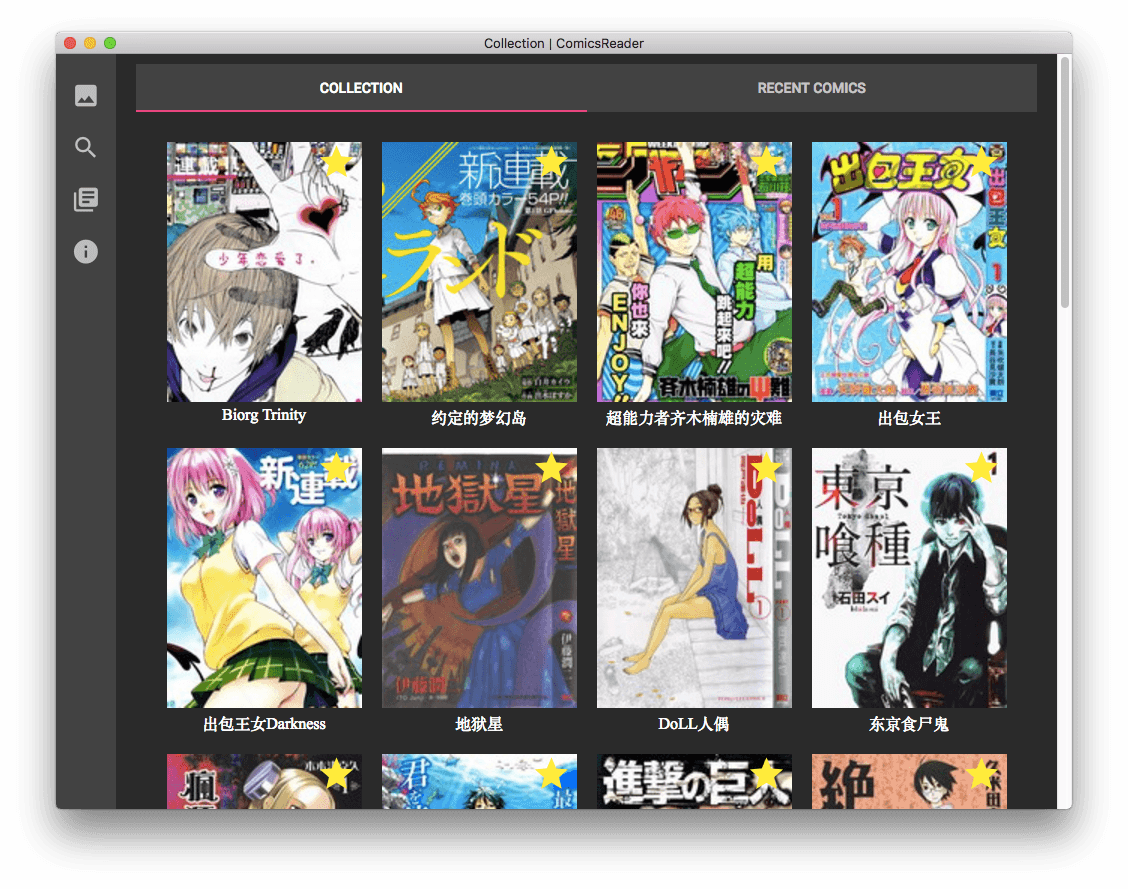
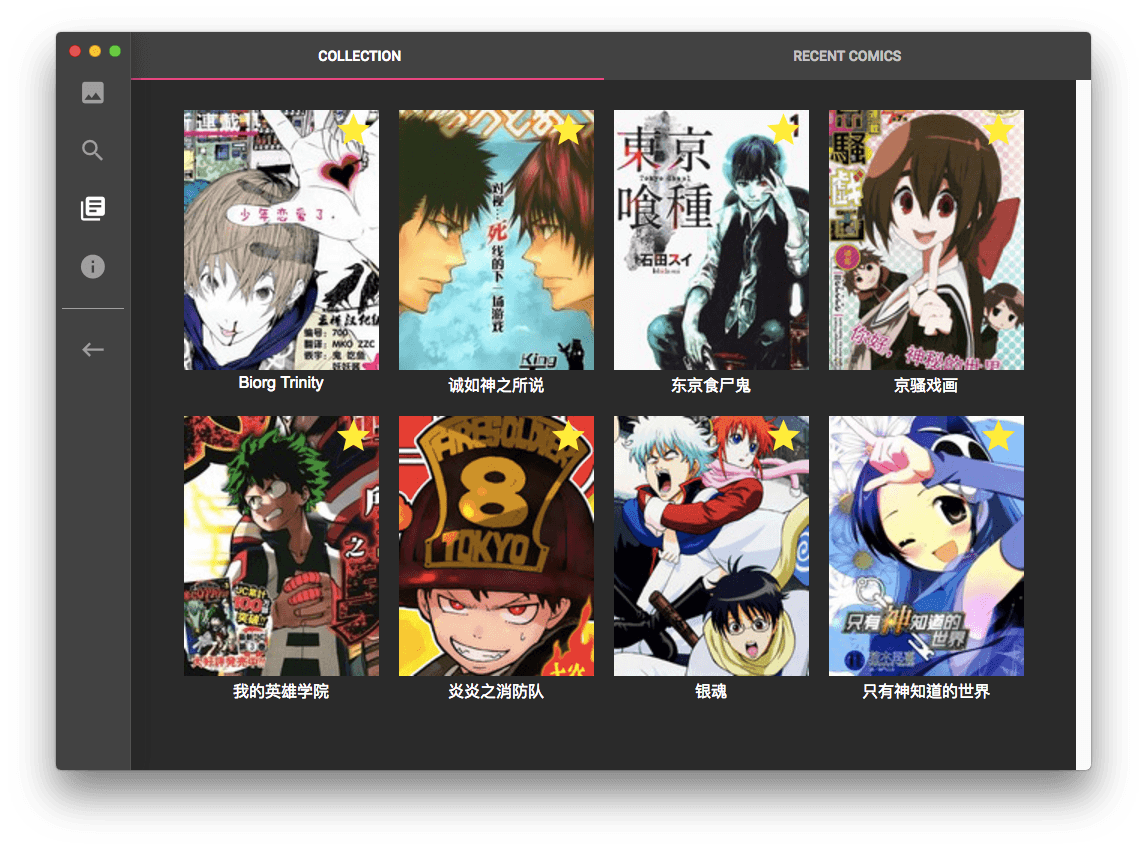
Update new screentshots

diff --git a/README.md b/README.md
@@ -6,11 +6,11 @@
 
 ## Preview
 
-![](docs/images/reader.png)
+<img src="docs/images/reader.png?" alt="">
 
-![](docs/images/collection.png)
+<img src="docs/images/collection.png?" alt="">
 
-![](docs/images/search.png)
+<img src="docs/images/search.png?" alt="">
 
 ## Backend
 
